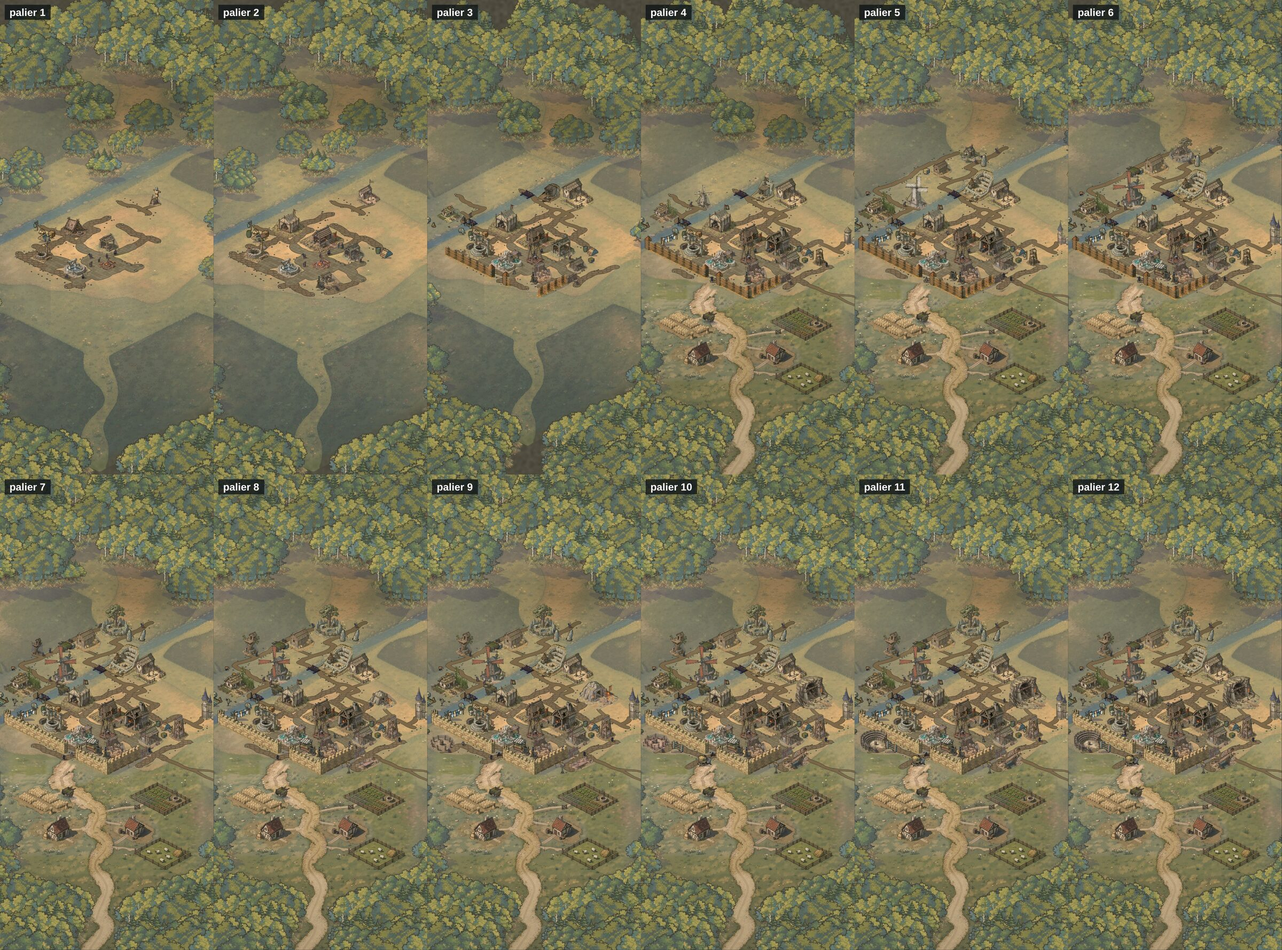
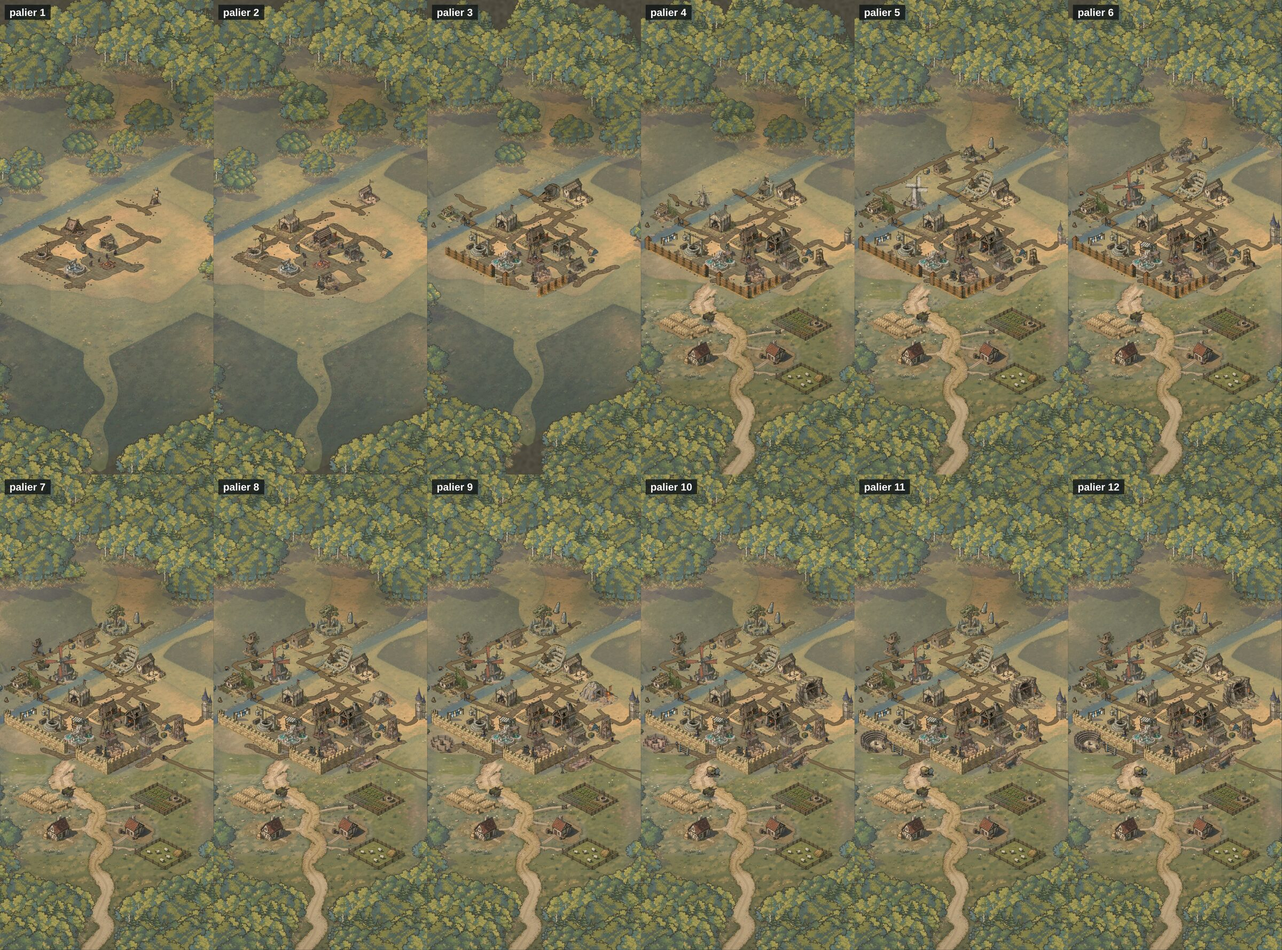
docs(layout): third pass notes, gates at 12 tiers, strips
Claude-Session: https://claude.ai/code/session_016PyBattknJAtyEqh7E1ngo

diff --git a/docs/designs/village/layout/paliers.md b/docs/designs/village/layout/paliers.md
@@ -189,3 +189,19 @@ Rue nord : `occlusion 0, anchors 0, props 8, depth 0, hooks 8, tap 0, motion 0`,
 - **Chemins des villageois** : `node scripts/layout/chemins.cjs` planifie 480 vagues par palier (12 jours x 40 numéros) avec le `planifierVague` de l'appli et vérifie chaque case parcourue : sur l'île, herbe, chemin ou pont, hors de tout plot et de toute section de rempart. Résultat aux 12 paliers : 0 violation (aucun pas sur l'eau, un bâtiment ou une route supprimée), les villageois marchent sur les deux rives (1770 à 10164 cases côté ouest selon le palier) et ne traversent jamais l'eau (0 pas sur un pont : chaque rive a ses métiers).
 - **Plancher 0,43 et paliers** : `img/plancher-t1-t6-t12.jpg`. À 0,43 l'île entière tient en largeur aux paliers 6 et 12 (le palier 1 est petit au centre). Le jeu ne recule pas en deçà (`cadrageComplet`). L'ouverture et les bornes se calculent sur `visible` de chaque palier, et les paliers ne font que croître : rien ne recule d'un palier à l'autre (les bâtiments, les cases, les stades et les accessoires par palier ne font qu'avancer). Défaut visible au plancher : bande sombre plate en haut de la carte et découpe carrée en bas de la route sud (bords du terrain peint).
 - **Le crop `porte` jusqu'au palier 6** : au palier 6 il est identique en art et en cases : les douze cases de chemin nouvelles de la fenêtre sont retenues à leur ancien palier (`RETENUES`). Seuls restent le pont ouest (1 et 2, 10, hors fenêtre) et une différence de lumière : le voile du sol (`voileVillage`) suit l'île, plus grande, et éclaircit le champ et la route de 5 niveaux de gris en moyenne (118,4 contre 123,8 sur la moitié basse du crop). Aux paliers 4 et 5 le coin est neuf (avant le plan il n'arrivait qu'au 6), donc rien à comparer. Mesure finale à cadre égal (position monde) : 12,7 % des pixels du crop diffèrent de plus de 8 niveaux, par la lumière du voile, le bas de la place (étal déplacé, fontaine) et le haut du crop ; mur, porte, route, champ et chaumières sont les mêmes. `img/porte-t6-avant-apres.jpg` (avant à gauche, après à droite).
+
+## Troisième passe (05/11) : revue de code et juges
+
+**Revue de code**
+- Ancres et sidecars : `villageois_farmer_face.json` (736) et `villageois_herbalist_face.json` (729) portent les ancres ; le pont jour a son sidecar `eau_canal_pont.jour.json` et `cleMaquette` (dans `__tests__/iso-maquettes.test.ts`) garde `.jour` dans la clé. Le générateur (`UPDATE_ISO_MAQUETTES=1`) produit bien `anchor: [384,736]`, `[384,729]` et le bloc `eau/canal_pont.jour.webp`, mais il ordonne et formate l'index autrement que les fichiers commités : sa sortie n'est pas gardée, `maquettes*.ts` restent ceux du dépôt.
+- `quartiers.ts` : `TOUTES` est `CASES`. `monde.ts` : `clairiere()` compte `CASES`. `solVarie.ts` : `densite()` est centrée sur la grille entière (`(DEBUT + TAILLE - 1) / 2`, côté `COTES * 0.72`), commentaire de `bordsDe` corrigé. Les maisons de remplissage (blocs de dev, interrupteur dans `dev-iso`) ne se voient pas dans l'atelier : je n'ai pas pu les regarder. Par construction une pièce ne se pose que sur une case d'herbe hors plot, hors chemin d'accès et hors sentier, donc ni route ni eau ; qu'elle ne passe pas devant un bâtiment n'est pas vérifié.
+- `lisiereChoix.ts` : `grille()` et `surLaGrille` lisent toute la grille (`CASES`, `dansLaGrille`), les boucles partent de `DEBUT - BORD`. `isoLisiere.json` régénéré (110 pièces contre 70) et `isoOrdre.json` aussi ; `iso-lisiere` et `iso-profondeur-ordre` sont verts. La revue citait [18,8], [18,10], [19,10], [17,9] : elles y sont encore, et c'est voulu : la règle `sePose` laisse un arbre sur un chemin ou un plot « à venir » et `lisiereMontree` le retire dès que sa case ou son plot se montre ; je ne l'ai donc pas changé. Avant et après : `img/lisiere-regeneree-t1.jpg`, `-t6.jpg`, `-t12.jpg` (avant à gauche, après à droite, vus) : presque identiques, deux petits buissons de plus au bord est du palier 1. Le crop verrouillé `lisiere` (nord-ouest) ne bouge pas : les pièces du nord-ouest ne s'affichent jamais (`devant` : gx + gy ≥ 18).
+- Scripts jetables supprimés : `hook.cjs`, `props.py`, `props2.py`, `essai.py`, `essais.py`, `mesure12.sh`, `cmp_porte.py` et `crops.sh` (il faisait `git checkout REF -- components constants`). Gardés : `paliers.py`, `rue.py`, `slots.py`, `plan.py`, `pont.py`, `une.sh`, `recadre.sh`, `rendre.sh`, `portes.sh`, `portes-tout.sh`, `portes_md.py`, `chemins.ts` et `chemins.cjs` (chemins des villageois), `crops.py` et `montage_crops.py` (coupes à cadre égal : il faut deux rendus, un worktree jetable donne l'avant).
+- Tests : tous ceux que la revue nomme sont dans `tests-debt.md`, aucun lancé.
+
+**Juges**
+- **Chariot couvert et sa silhouette à la porte sud** : ils sont cuits dans le terrain peint du coin verrouillé (ni accessoire ni villageois, `img/porte-sud-t12.jpg`) : pas déplaçables sans repeindre. Ce que j'ai fait : le chariot cassé (`charrette_cassee_1`, palier 10) passe en [15, 19] et les cases `[12, 16]` et `[12, 17]` ne sont plus des places de villageois debout (`casesDuLieu("porte")`).
+- **Menhirs** : `menhir_1` en [-2, -7] et `menhir_3` en [-4, -8], derrière le bosquet, hors de la rue (crop `groupe-bosquet.jpg`, vu).
+- **Culs-de-sac** : retirés (17, 3), (5, 13) et (3 à 5, 15) (le bout du chemin de ronde à l'ouest, qui finissait dans l'herbe). Restent des bouts sans plot : (-1, -8), la fin de la rue nord, qui mène à la forêt et à la clairière de GROWTH, et (12, 19), la sortie sud vers la route peinte ; les autres bouts touchent un plot. Cases encore retenues à un palier plus tardif : (18, 13) et (16, 15) au 7, (19, 13) au 8, (11, 17), (12, 17), (9, 17), (10, 17) au 7, (8, 17) au 8 et (19, 10) au 7 : ce sont de vraies routes (route de l'arène, route est, bout du chemin de ronde) gardées à leur ancien palier pour que le coin du palier 6 ne change pas.
+- **La route par la porte sud atteint-elle la place ?** Oui dans les données : les cases (12, 19) à (12, 12) se suivent jusqu'au feu en [12, 11] (lues dans `sol`), et le crop `img/porte-sud-t12.jpg` montre le pavé traversant l'ouverture du mur jusqu'à la fontaine. Ce que les juges voient : l'ouverture est occupée par le chariot couvert peint.
+- **Nuit, place** : l'aplat moutarde est la place pavée (`Rues`, bande « place » en `isoPaveClairNuit` #5F5643) sous la flaque chaude du foyer (`Mares`, `isoFlaqueFoyer`). Rien de ce que le plan a changé n'y entre : le feu, la salle, la fontaine, le puits et les rues de la place n'ont pas bougé. J'ai essayé le seuil `ILE_DU_CAMP` (le palier 1 compte 111 cases au lieu de 80) : aucun changement (`img/nuit-place-t1-avant-apres.jpg`, vu). Je n'ai pas rendu la même chose sur `99d3e26fc` (worktree jetable non monté). À POLISH.

diff --git a/docs/designs/village/layout/portes-12-paliers.md b/docs/designs/village/layout/portes-12-paliers.md
@@ -1,4 +1,4 @@
-# Portes de `check`, 12 paliers, jour (mesurées sur le commit `7cf285987`)
+# Portes de `check`, 12 paliers, jour (mesurées sur le commit `99f8243c7`)
 
 `scripts/layout/portes-tout.sh DOSSIER` (rebuild, puis `portes.sh` par défaut, puis `portes.sh haut=1`). La dernière ligne `GATE FAILED` d'un lancement SOMME les 12 paliers : les tableaux donnent le palier seul.
 
@@ -6,26 +6,26 @@
 
 | Palier | Bâtiments | Occlusion sous 85 % | Pire | Ancrages | Accessoires sous 50 % | Crochets couverts | Tap |
 |---|---|---|---|---|---|---|---|
-| 1 | 6 | 0 | fountain 99.2 % | 0 | 0 | 0 | 0 |
+| 1 | 6 | 0 | heroes_hall 99.4 % | 0 | 0 | 0 | 0 |
 | 2 | 8 | 0 | archery_range 93.5 % | 0 | 0 | 2 | 0 |
 | 3 | 12 | 0 | heroes_hall 87.7 % | 0 | 0 | 3 | 0 |
 | 4 | 15 | 0 | heroes_hall 85.8 % | 0 | 0 | 3 | 0 |
 | 5 | 17 | 0 | heroes_hall 85.8 % | 0 | 0 | 5 | 0 |
 | 6 | 17 | 0 | heroes_hall 85.8 % | 0 | 0 | 4 | 0 |
-| 7 | 18 | 0 | heroes_hall 85.7 % | 0 | 0 | 6 | 0 |
+| 7 | 18 | 0 | heroes_hall 85.6 % | 0 | 0 | 6 | 0 |
 | 8 | 20 | 0 | heroes_hall 85.6 % | 0 | 0 | 6 | 0 |
-| 9 | 21 | 0 | heroes_hall 85.7 % | 0 | 0 | 7 | 0 |
-| 10 | 21 | 0 | heroes_hall 85.7 % | 0 | 0 | 6 | 0 |
-| 11 | 21 | 0 | heroes_hall 85.6 % | 0 | 0 | 7 | 0 |
-| 12 | 21 | 0 | heroes_hall 85.6 % | 0 | 0 | 7 | 0 |
+| 9 | 21 | 0 | heroes_hall 85.7 % | 0 | 0 | 8 | 0 |
+| 10 | 21 | 0 | heroes_hall 85.7 % | 0 | 0 | 7 | 0 |
+| 11 | 21 | 0 | heroes_hall 85.7 % | 0 | 0 | 8 | 0 |
+| 12 | 21 | 0 | heroes_hall 85.7 % | 0 | 0 | 8 | 0 |
 
-Somme des 12 paliers : `occlusion 0, anchors 0, props 0, depth 0, hooks 56, tap 0, motion 0`
+Somme des 12 paliers : `occlusion 0, anchors 0, props 0, depth 0, hooks 60, tap 0, motion 0`
 
 Palier 12, lignes de détail :
 
 ```
 GATE occlusion: 0 of 21 buildings under 85.0 % visible; worst first (px = device px covered):
-heroes_hall       85.6 %  iso-maquette-campfire 1729px, iso-maquette-forge 299px, iso-habitant-h8 22px
+heroes_hall       85.7 %  iso-maquette-campfire 1729px, iso-maquette-forge 299px, iso-habitant-h7 22px
 archery_range     87.2 %  iso-pan 566px, iso-accessoire-ratelier_1 482px
 campfire          88.0 %  iso-maquette-archery_range 738px
 castle_wall       88.4 %  iso-pan 359px, iso-maquette-high_road 5px
@@ -33,7 +33,7 @@ fountain          95.1 %  iso-pan 628px
 quarry            96.1 %  iso-maquette-training_dummy 717px
 forge             96.5 %  iso-maquette-armory 462px, iso-marcheur-smith 121px
 wizard_tower      97.0 %  iso-accessoire-menhir_2 185px
-GATE hooks: 7 of 21 drawn hook boxes covered (over 1.0 % of their opaque pixels):
+GATE hooks: 8 of 21 drawn hook boxes covered (over 1.0 % of their opaque pixels):
 ```
 
 ## Tous les bâtiments à leur plus haut stade (`haut=1`)
@@ -46,20 +46,20 @@ GATE hooks: 7 of 21 drawn hook boxes covered (over 1.0 % of their opaque pixels)
 | 4 | 15 | 0 | heroes_hall 85.8 % | 0 | 0 | 6 | 0 |
 | 5 | 17 | 0 | heroes_hall 85.8 % | 0 | 0 | 7 | 0 |
 | 6 | 17 | 0 | heroes_hall 85.8 % | 0 | 0 | 7 | 0 |
-| 7 | 18 | 0 | heroes_hall 85.7 % | 0 | 0 | 6 | 0 |
-| 8 | 20 | 0 | heroes_hall 85.6 % | 0 | 0 | 6 | 0 |
-| 9 | 21 | 0 | heroes_hall 85.7 % | 0 | 0 | 7 | 0 |
-| 10 | 21 | 0 | heroes_hall 85.7 % | 0 | 0 | 7 | 0 |
-| 11 | 21 | 0 | heroes_hall 85.6 % | 0 | 0 | 7 | 0 |
-| 12 | 21 | 0 | heroes_hall 85.6 % | 0 | 0 | 7 | 0 |
+| 7 | 18 | 0 | heroes_hall 85.6 % | 0 | 0 | 6 | 0 |
+| 8 | 20 | 0 | heroes_hall 85.7 % | 0 | 0 | 6 | 0 |
+| 9 | 21 | 0 | heroes_hall 85.7 % | 0 | 0 | 8 | 0 |
+| 10 | 21 | 0 | heroes_hall 85.7 % | 0 | 0 | 8 | 0 |
+| 11 | 21 | 0 | heroes_hall 85.7 % | 0 | 0 | 8 | 0 |
+| 12 | 21 | 0 | heroes_hall 85.7 % | 0 | 0 | 8 | 0 |
 
-Somme des 12 paliers : `occlusion 0, anchors 0, props 0, depth 0, hooks 69, tap 0, motion 0`
+Somme des 12 paliers : `occlusion 0, anchors 0, props 0, depth 0, hooks 73, tap 0, motion 0`
 
 Palier 12, lignes de détail :
 
 ```
 GATE occlusion: 0 of 21 buildings under 85.0 % visible; worst first (px = device px covered):
-heroes_hall       85.6 %  iso-maquette-campfire 1729px, iso-maquette-forge 299px, iso-habitant-h8 22px
+heroes_hall       85.7 %  iso-maquette-campfire 1729px, iso-maquette-forge 299px, iso-habitant-h7 22px
 archery_range     87.2 %  iso-pan 566px, iso-accessoire-ratelier_1 482px
 campfire          88.0 %  iso-maquette-archery_range 738px
 castle_wall       88.4 %  iso-pan 359px, iso-maquette-high_road 5px
@@ -67,6 +67,21 @@ fountain          95.1 %  iso-pan 628px
 quarry            96.1 %  iso-maquette-training_dummy 717px
 forge             96.5 %  iso-maquette-armory 462px, iso-marcheur-smith 121px
 wizard_tower      97.0 %  iso-accessoire-menhir_2 185px
-GATE hooks: 7 of 21 drawn hook boxes covered (over 1.0 % of their opaque pixels):
+GATE hooks: 8 of 21 drawn hook boxes covered (over 1.0 % of their opaque pixels):
 ```
 
+
+## Palier 12, `haut=1` : les 8 crochets couverts (lus sur `check --tier 12 --query haut=1`, commit `99f8243c7`)
+
+```
+heroes_hall grand: 8,1 %, par feu 1729 px, forge 299 px, villageois 22 px
+archery_range grand: 1,5 %, par pan de mur 566 px, ratelier 482 px
+campfire grand: 16,9 %, par archerie 738 px
+castle_wall solid: 6,6 %, par pan de mur 359 px, route haute 5 px
+quarry grand: 2,5 %, par mannequin 717 px
+forge grand: 1,3 %, par armurerie 462 px, forgeron 121 px
+champion_arena grand: 2,3 %, par deux villageois (142 px et 136 px)
+druid_grove grand: 1,3 %, par un villageois (204 px)
+```
+
+Les villageois qui couvrent l'arene et le bosquet (et 22 px de la salle) dependent de la graine des habitants (`habitants.ts`) : leur place est devant le batiment et aucune regle ne leur interdit de cacher un crochet, je ne les ai pas changes. `portes.sh` n'imprime pas les lignes de detail des crochets : elles sont lues ici a part.
